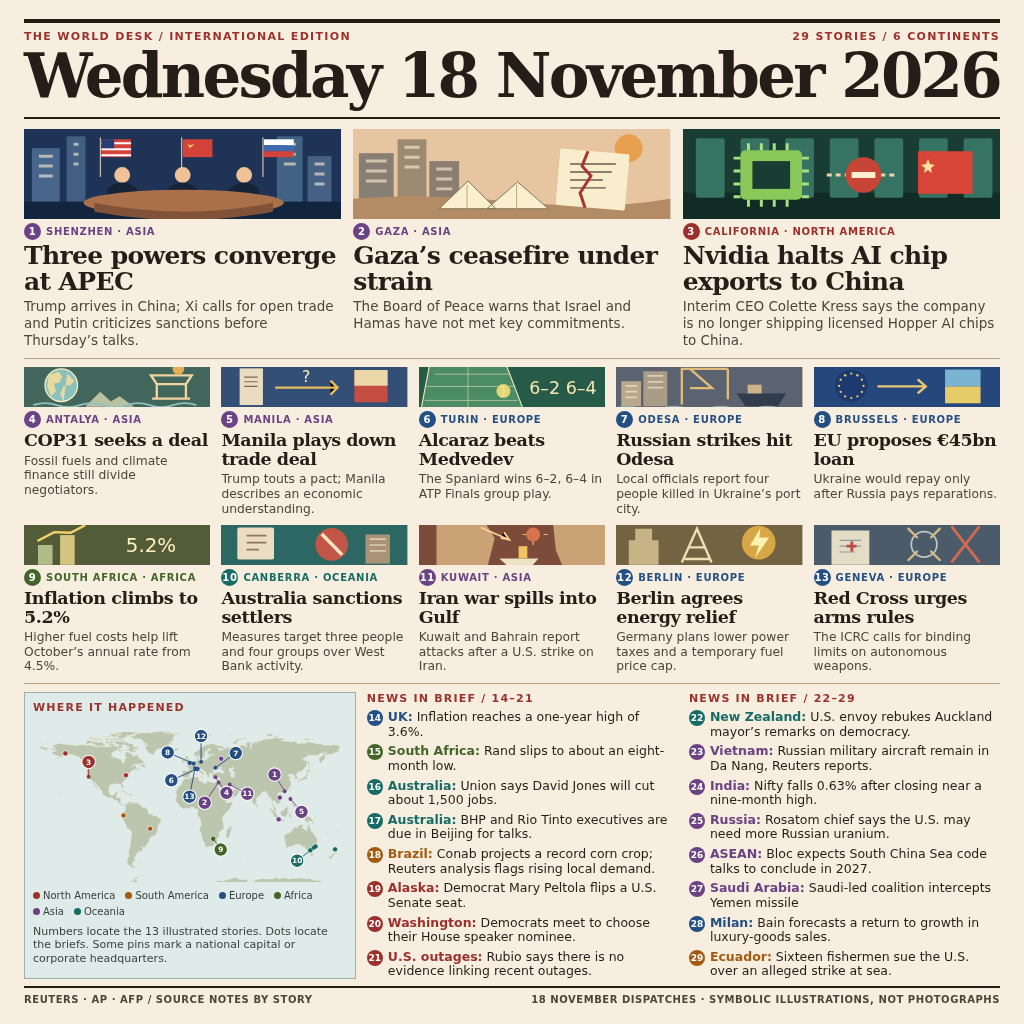
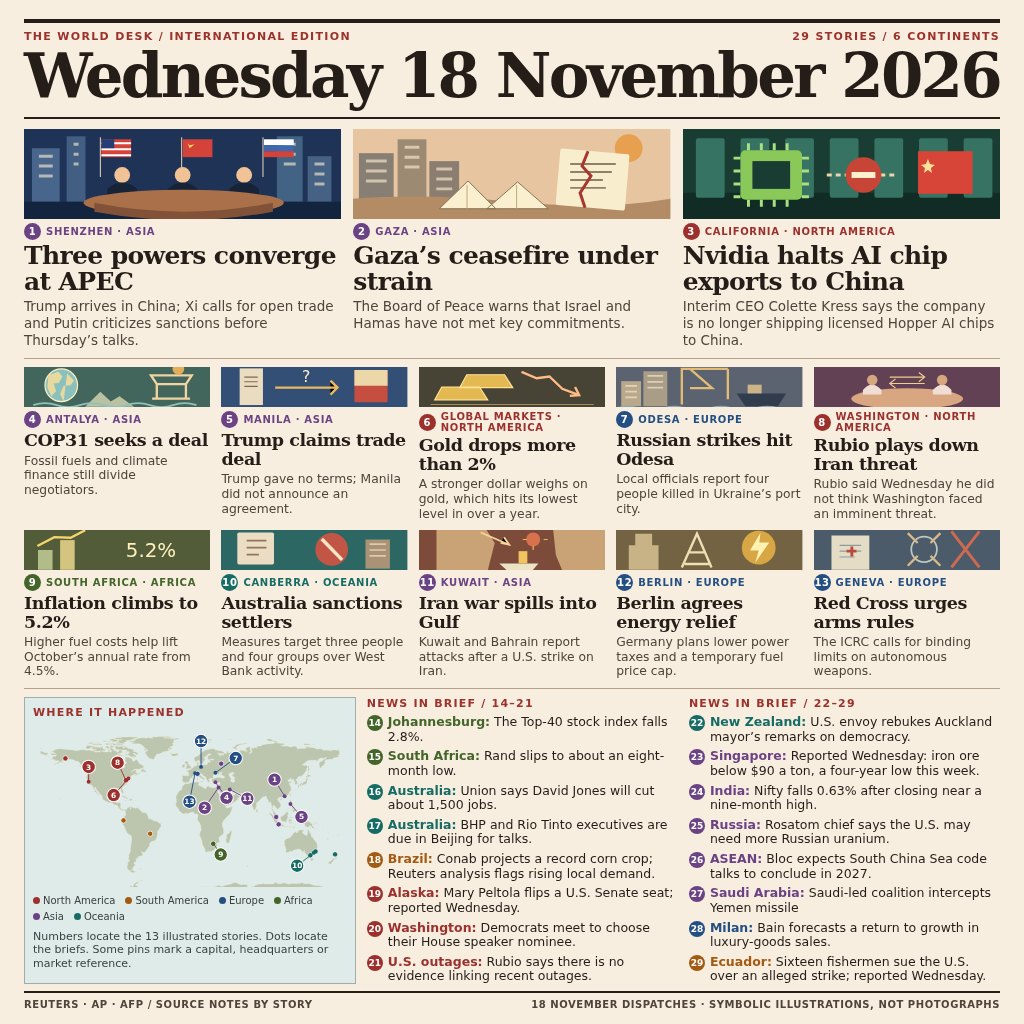
Replace unsupported claims with archived Reuters reporting

Changed region(s): [[0.0, 0.3438, 1.0, 1.0]]

diff --git a/frontpage.html b/frontpage.html
@@ -2,10 +2,12 @@
 <html lang="en"><meta charset="utf-8"><meta name="viewport" content="width=1024"><title>The World Desk | 18 November 2026</title>
 <style>
 :root{--paper:#f7eee0;--ink:#251d17;--sub:#50443a;--rule:#b8a18a;--red:#9d312b}*{box-sizing:border-box}html,body{width:1024px;min-height:1024px;margin:0}body{padding:19px 24px 12px;background:var(--paper);color:var(--ink);font:14px Arial,sans-serif}h1,h2,p{margin:0}header{padding:7px 0 8px;border-top:4px solid var(--ink);border-bottom:2px solid var(--ink)}.strap,footer{display:flex;justify-content:space-between;text-transform:uppercase;font-weight:bold;letter-spacing:.12em;font-size:11px;color:var(--red)}h1,h2{font-family:Georgia,serif}h1{text-align:center;font-size:61px;line-height:1.08;letter-spacing:-.045em}.news{display:grid;gap:12px}.lead{grid-template-columns:repeat(3,minmax(0,1fr));margin-top:12px;padding-bottom:12px;border-bottom:1px solid var(--rule)}.mid{grid-template-columns:repeat(5,minmax(0,1fr));gap:11px;margin-top:10px;padding-bottom:11px;border-bottom:1px solid var(--rule)}article{min-width:0}article svg{display:block;width:100%;height:94px}.mid svg{height:40px}.meta{display:flex;align-items:center;gap:5px;margin:4px 0 3px;text-transform:uppercase;letter-spacing:.07em;font-size:10px;font-weight:800;color:var(--color)}.num{background:var(--color);color:white;display:inline-grid;place-items:center;min-width:17px;height:17px;border-radius:50%;font:bold 10px Arial;flex:none}article h2{font-size:26px;line-height:1.03;letter-spacing:-.025em}article p{font-size:14px;line-height:1.23;color:var(--sub);margin-top:4px}.mid h2{font-size:18px;line-height:1.06}.mid p{font-size:12.5px;line-height:1.19}.bottom{display:grid;grid-template-columns:34% 1fr 1fr;gap:11px;margin-top:10px}.label{font:bold 11px Arial;text-transform:uppercase;letter-spacing:.11em;color:var(--red);margin-bottom:5px}.map{background:#deebe9;padding:8px;border:1px solid #9eaeab;min-width:0;align-self:stretch}.atlas{position:relative;aspect-ratio:340/174;margin-top:7px}.atlas img,.atlas svg{position:absolute;width:100%;height:100%}.legend{display:flex;gap:5px 10px;flex-wrap:wrap;margin-top:8px;font-size:10px;color:#393e3c}.legend span{display:flex;align-items:center;gap:3px}.legend i{width:7px;height:7px;border-radius:50%;background:var(--color)}.map p{font-size:11px;line-height:1.25;color:#39433e;margin-top:8px}.briefs{list-style:none;margin:0;padding:0;display:grid;gap:5px}.briefs li{display:flex;gap:5px;align-items:flex-start;font-size:13px;line-height:1.16}.briefs .num{min-width:16px;height:16px;font-size:9px}.briefs strong{color:var(--color)}footer{margin-top:9px;padding-top:6px;border-top:2px solid var(--ink);letter-spacing:.055em;color:var(--sub);font-size:10px}
+/* Fit all reporting on the square canvas without clipping or hidden overflow. */
+.lead{margin-top:10px;padding-bottom:10px}.lead h2{font-size:25px}.lead p{font-size:13.5px}.lead svg{height:90px}.mid{gap:9px 11px;margin-top:8px;padding-bottom:9px}.mid h2{font-size:17.5px}.mid p{font-size:12.3px}.bottom{margin-top:8px}.briefs li{font-size:12.5px;line-height:1.17}footer{margin-top:7px}
 </style>
 <header><div class="strap"><span>The World Desk / International edition</span><span id="edition"></span></div><h1>Wednesday 18 November 2026</h1></header>
 <main><section class="news lead" aria-label="Lead stories"></section><section class="news mid" aria-label="Regional stories"></section>
-<section class="bottom"><aside class="map"><h2 class="label">Where it happened</h2><div class="atlas"><svg viewBox="0 0 340 174" role="img" aria-label="Story locations matching the numbered headlines"></svg></div><div class="legend"></div><p>Numbers locate the 13 illustrated stories. Dots locate the briefs. Some pins mark a national capital or corporate headquarters.</p></aside>
+<section class="bottom"><aside class="map"><h2 class="label">Where it happened</h2><div class="atlas"><svg viewBox="0 0 340 174" role="img" aria-label="Story locations matching the numbered headlines"></svg></div><div class="legend"></div><p>Numbers locate the 13 illustrated stories. Dots locate the briefs. Some pins mark a capital, headquarters or market reference.</p></aside>
 <section><h2 class="label">News in brief / 14–21</h2><ol class="briefs" id="brief-a"></ol></section><section><h2 class="label">News in brief / 22–29</h2><ol class="briefs" id="brief-b"></ol></section></section></main>
 <footer><span>Reuters · AP · AFP / Source notes by story</span><span>18 November dispatches · Symbolic illustrations, not photographs</span></footer>
 <script src="stories.js"></script><script src="illustrations.js"></script>
@@ -23,7 +25,7 @@ all('#brief-a').innerHTML=stories.slice(13,21).map((s,j)=>brief(s,j+13)).join(''
 all('#brief-b').innerHTML=stories.slice(21).map((s,j)=>brief(s,j+21)).join('');
 all('.legend').innerHTML=Object.values(regions).map(([n,c])=>`<span style="--color:${c}"><i></i>${n}</span>`).join('');
 const project=(lat,lon)=>[8+(lon+180)*.9,12+(83-lat)*1.06];
-const offsets=[[-11,-18],[-15,22],[0,-16],[12,17],[12,14],[-27,12],[22,-16],[-28,-12],[8,12],[-18,14],[19,10],[0,-28],[-6,31]];
+const offsets=[[-11,-18],[-15,22],[0,-16],[12,17],[12,14],[-16,18],[22,-16],[-9,-19],[8,12],[-18,14],[19,10],[0,-28],[-6,31]];
 const pins=stories.map((s,i)=>{
  const [x,y]=project(s[2],s[3]),color=regions[s[1]][1];
  if(i>=13)return `<circle cx="${x}" cy="${y}" r="2.9" fill="${color}" stroke="#fff" stroke-width=".8"><title>${i+1} ${s[0]}</title></circle>`;

diff --git a/stories.js b/stories.js
@@ -4,29 +4,29 @@ const stories = [
  ['Gaza','AS',31.50,34.47,'Gaza’s ceasefire under strain','The Board of Peace warns that Israel and Hamas have not met key commitments.','gaza'],
  ['California','NA',37.35,-121.95,'Nvidia halts AI chip exports to China','Interim CEO Colette Kress says the company is no longer shipping licensed Hopper AI chips to China.','chip'],
  ['Antalya','AS',36.90,30.70,'COP31 seeks a deal','Fossil fuels and climate finance still divide negotiators.','climate'],
- ['Manila','AS',14.60,120.98,'Manila plays down trade deal','Trump touts a pact; Manila describes an economic understanding.','trade'],
- ['Turin','EU',45.07,7.69,'Alcaraz beats Medvedev','The Spaniard wins 6–2, 6–4 in ATP Finals group play.','tennis'],
+ ['Manila','AS',14.60,120.98,'Trump claims trade deal','Trump gave no terms; Manila did not announce an agreement.','trade'],
+ ['Global markets','NA',40.71,-74.01,'Gold drops more than 2%','A stronger dollar weighs on gold, which hits its lowest level in over a year.','gold'],
  ['Odesa','EU',46.48,30.73,'Russian strikes hit Odesa','Local officials report four people killed in Ukraine’s port city.','port'],
- ['Brussels','EU',50.85,4.35,'EU proposes €45bn loan','Ukraine would repay only after Russia pays reparations.','loan'],
+ ['Washington','NA',38.90,-77.04,'Rubio plays down Iran threat','Rubio said Wednesday he did not think Washington faced an imminent threat.','talks'],
  ['South Africa','AF',-25.75,28.19,'Inflation climbs to 5.2%','Higher fuel costs help lift October’s annual rate from 4.5%.','inflation'],
  ['Canberra','OC',-35.28,149.13,'Australia sanctions settlers','Measures target three people and four groups over West Bank activity.','sanctions'],
  ['Kuwait','AS',29.38,47.99,'Iran war spills into Gulf','Kuwait and Bahrain report attacks after a U.S. strike on Iran.','gulf'],
  ['Berlin','EU',52.52,13.41,'Berlin agrees energy relief','Germany plans lower power taxes and a temporary fuel price cap.','energy'],
  ['Geneva','EU',46.20,6.15,'Red Cross urges arms rules','The ICRC calls for binding limits on autonomous weapons.','law'],
- ['UK','EU',51.51,-.13,'Inflation reaches a one-year high of 3.6%.'],
+ ['Johannesburg','AF',-26.20,28.05,'The Top-40 stock index falls 2.8%.'],
  ['South Africa','AF',-26.20,28.05,'Rand slips to about an eight-month low.'],
  ['Australia','OC',-33.87,151.21,'Union says David Jones will cut about 1,500 jobs.'],
  ['Australia','OC',-37.81,144.96,'BHP and Rio Tinto executives are due in Beijing for talks.'],
  ['Brazil','SA',-15.79,-47.88,'Conab projects a record corn crop; Reuters analysis flags rising local demand.'],
- ['Alaska','NA',61.22,-149.90,'Democrat Mary Peltola flips a U.S. Senate seat.'],
+ ['Alaska','NA',61.22,-149.90,'Mary Peltola flips a U.S. Senate seat; reported Wednesday.'],
  ['Washington','NA',38.90,-77.04,'Democrats meet to choose their House speaker nominee.'],
  ['U.S. outages','NA',38.90,-77.04,'Rubio says there is no evidence linking recent outages.'],
  ['New Zealand','OC',-36.85,174.76,'U.S. envoy rebukes Auckland mayor’s remarks on democracy.'],
- ['Vietnam','AS',16.05,108.20,'Russian military aircraft remain in Da Nang, Reuters reports.'],
+ ['Singapore','AS',1.29,103.85,'Reported Wednesday: iron ore below $90 a ton, a four-year low this week.'],
  ['India','AS',19.08,72.88,'Nifty falls 0.63% after closing near a nine-month high.'],
  ['Russia','AS',55.76,37.62,'Rosatom chief says the U.S. may need more Russian uranium.'],
  ['ASEAN','AS',-6.21,106.85,'Bloc expects South China Sea code talks to conclude in 2027.'],
  ['Saudi Arabia','AS',24.71,46.67,'Saudi-led coalition intercepts Yemen missile','The coalition says it destroyed a Houthi cruise missile launched toward Riyadh.','gulf'],
  ['Milan','EU',45.46,9.19,'Bain forecasts a return to growth in luxury-goods sales.'],
- ['Ecuador','SA',-2.17,-79.92,'Sixteen fishermen sue the U.S. over an alleged strike at sea.'],
+ ['Ecuador','SA',-2.17,-79.92,'Sixteen fishermen sue the U.S. over an alleged strike; reported Wednesday.'],
 ];

diff --git a/illustrations.js b/illustrations.js
@@ -7,6 +7,8 @@ function artwork(kind, large) {
  if(kind==='gaza')return wrap('#e6c5a0',`<circle cx="278" cy="21" r="14" fill="#e6a050"/>${building(6,26,35,49,'#877e74')}${building(45,12,29,63,'#9d8a73')}${building(77,34,30,41,'#8b7e71')}<path d="M0 72q70-6 161 3t159-3v22H0" fill="#b38c66"/><path d="m87 82 29-28 28 28zm48 0 31-27 31 27z" fill="#faf0cf" stroke="#867457"/><path d="M115 58v24m50-24v24" stroke="#bda77c"/><rect x="207" y="24" width="70" height="57" rx="2" fill="#f8edcc" transform="rotate(5 240 48)"/><path d="M219 37h46m-46 8h42m-42 8h33m-33 8h36" stroke="#8d816b" stroke-width="2"/><path d="m237 24-6 15 9 10-11 17 5 15" stroke="#a63630" stroke-width="3" fill="none"/>`);
  if(kind==='chip')return wrap('#193c33',`<path d="M0 66h320v28H0" fill="#102c25"/><g fill="#367363">${Array.from({length:7},(_,i)=>`<rect x="${13+i*45}" y="11" width="29" height="60" rx="2"/>`).join('')}</g><rect x="58" y="23" width="62" height="50" rx="5" fill="#8ac85a"/><rect x="70" y="34" width="38" height="28" fill="#193c33"/><g stroke="#a9df80" stroke-width="3"><path d="M66 16v7m13-7v7m13-7v7m13-7v7M66 73v7m13-7v7m13-7v7m13-7v7M51 31h7m-7 13h7m-7 13h7m-7 13h7m62-39h7m-7 13h7m-7 13h7m-7 13h7"/></g><path d="M145 48h72" stroke="#ebd5aa" stroke-width="3" stroke-dasharray="5 4"/><circle cx="182" cy="48" r="18" fill="#c64536"/><rect x="170" y="45" width="24" height="6" fill="#fff0d0"/><rect x="237" y="24" width="55" height="43" fill="#d64537"/><path d="m247 32 2 5 5 1-4 3 1 5-4-3-4 3 1-5-4-3 5-1z" fill="#ffe19a"/>`);
  if(kind==='climate')return wrap('#43665c',`${globe}<path d="M105 81l26-26 18 17 15-9 25 18z" fill="#b9c1a2"/><path d="M16 78q20-7 40 0t40 0 40 0 40 0 40 0 40 0 40 0" stroke="#90c1ba" stroke-width="3" fill="none"/><path d="M218 27h70l-10 15h-50zM228 42v25m50-25v25M220 67h65" stroke="#f0d4a1" stroke-width="4" fill="none"/><circle cx="265" cy="16" r="10" fill="#e4ae57"/>`);
+ if(kind==='gold')return wrap('#484435',`<path d="M20 77h280" stroke="#a58a53" stroke-width="2"/><path d="m27 69 12-22h65l14 22zm43-21 12-22h65l14 22z" fill="#e5b952" stroke="#ffe397" stroke-width="2"/><path d="m176 21 26 11 22-3 22 21 29 11m-16 1 16-1-7-14" fill="none" stroke="#ffbb87" stroke-width="4"/>`);
+ if(kind==='talks')return wrap('#624154',`<ellipse cx="160" cy="67" rx="96" ry="18" fill="#d8a681"/><path d="M84 60V52q15-18 32 0v8m88 0v-8q17-18 32 0v8" fill="#f0ddd3"/><circle cx="100" cy="35" r="9" fill="#d6a77e"/><circle cx="220" cy="35" r="9" fill="#d6a77e"/><path d="M130 30h60m-10-8 10 8-10 8M190 41h-60m10-8-10 8 10 8" fill="none" stroke="#f0ce90" stroke-width="2"/>`);
  if(kind==='trade')return wrap('#344f76',`<rect x="32" y="15" width="40" height="63" fill="#eadcc0"/><path d="M40 30h23m-23 8h23m-23 8h23" stroke="#81674e" stroke-width="2"/><path d="M93 48h107m-12-12 12 12-12 12" stroke="#e8ba60" stroke-width="4"/><path d="m229 18 29 15 28-15v55h-57z" fill="#c64e40"/><path d="M229 18h57v27h-57" fill="#ebd7a8"/><text x="146" y="39" font-size="27" text-anchor="middle" font-family="Georgia" fill="#fff0c6">?</text>`);
  if(kind==='tennis')return wrap('#275b49',`<path d="M18 10h132l28 73H4z" fill="#4b8b65" stroke="#efe4b5" stroke-width="2"/><path d="M84 10v73M13 46h152M27 25h128M10 70h159" stroke="#efe4b5" fill="none"/><circle cx="145" cy="54" r="12" fill="#e4d672"/><path d="M140 43q13 12 0 22" fill="none" stroke="white"/><text x="247" y="59" text-anchor="middle" font-size="30" fill="#f6e6b1" font-family="Georgia">6–2 6–4</text>`);
  if(kind==='port')return wrap('#5c6370',`${building(9,37,34,43,'#b9a88c')}${building(47,20,41,60,'#aa9d88')}<path d="M113 77V16h79m-65 0 38 33h-38m65-33v52" stroke="#e0bc76" stroke-width="4" fill="none"/><path d="M207 58h85l-14 22h-56z" fill="#313d4c"/><rect x="226" y="43" width="24" height="15" fill="#ccb487"/><path d="M0 84q20-7 40 0t40 0 40 0 40 0 40 0 40 0 40 0" stroke="#8aa8ad" stroke-width="3" fill="none"/>`);

diff --git a/index.html b/index.html
@@ -7,7 +7,7 @@
 </style>
 <header><div class="strap"><span>The World Desk / International edition</span><span id="edition"></span></div><h1>Wednesday 18 November 2026</h1></header>
 <main><section class="news lead" aria-label="Lead stories"></section><section class="news mid" aria-label="Regional stories"></section>
-<section class="bottom"><aside class="map"><h2 class="label">Where it happened</h2><div class="atlas"><svg viewBox="0 0 340 174" role="img" aria-label="Story locations matching the numbered headlines"></svg></div><div class="legend"></div><p>Numbers locate the 13 illustrated stories. Dots locate the briefs. Some pins mark a national capital or corporate headquarters.</p></aside>
+<section class="bottom"><aside class="map"><h2 class="label">Where it happened</h2><div class="atlas"><svg viewBox="0 0 340 174" role="img" aria-label="Story locations matching the numbered headlines"></svg></div><div class="legend"></div><p>Numbers locate the 13 illustrated stories. Dots locate the briefs. Some pins mark a capital, headquarters or market reference.</p></aside>
 <section><h2 class="label">News in brief / 14–21</h2><ol class="briefs" id="brief-a"></ol></section><section><h2 class="label">News in brief / 22–29</h2><ol class="briefs" id="brief-b"></ol></section></section></main>
 <footer><span>Reuters · AP · AFP / Source notes by story</span><span>18 November dispatches · Symbolic illustrations, not photographs</span></footer>
 <script src="stories.js"></script><script src="illustrations.js"></script>
@@ -25,7 +25,7 @@ all('#brief-a').innerHTML=stories.slice(13,21).map((s,j)=>brief(s,j+13)).join(''
 all('#brief-b').innerHTML=stories.slice(21).map((s,j)=>brief(s,j+21)).join('');
 all('.legend').innerHTML=Object.values(regions).map(([n,c])=>`<span style="--color:${c}"><i></i>${n}</span>`).join('');
 const project=(lat,lon)=>[8+(lon+180)*.9,12+(83-lat)*1.06];
-const offsets=[[-11,-18],[-15,22],[0,-16],[12,17],[12,14],[-27,12],[22,-16],[-28,-12],[8,12],[-18,14],[19,10],[0,-28],[-6,31]];
+const offsets=[[-11,-18],[-15,22],[0,-16],[12,17],[12,14],[-16,18],[22,-16],[-9,-19],[8,12],[-18,14],[19,10],[0,-28],[-6,31]];
 const pins=stories.map((s,i)=>{
  const [x,y]=project(s[2],s[3]),color=regions[s[1]][1];
  if(i>=13)return `<circle cx="${x}" cy="${y}" r="2.9" fill="${color}" stroke="#fff" stroke-width=".8"><title>${i+1} ${s[0]}</title></circle>`;

diff --git a/SOURCES.md b/SOURCES.md
@@ -9,30 +9,30 @@ All text is preserved from the locally cached November 18, 2026 reporting used f
 | 3 | Licensed Nvidia chips | Reuters/Investing.com, `page-3.md` / extract | Chip wording says licensed Hopper shipments stopped. |
 | 4 | COP31 | AFP/France 24, `page-4.md` | Negotiations and climate finance. |
 | 5 | U.S.–Philippines trade claim | Reuters/Investing.com, `page-5.md` | Clearly distinguishes Trump’s claim from Manila’s position. |
-| 6 | Alcaraz–Medvedev | ATP Tour/BBC Sport links in original README; AFP URL in source ledger | 6–2, 6–4 retained. |
-| 7 | Odesa attack | Reuters via Internazionale, `page-7.md` | Local officials’ casualty report attributed. |
-| 8 | EU–Ukraine loan | Source URL in ledger; article cache `page-8.md` | €45bn, repayment condition as cached. |
+| 6 | Gold | [Reuters via CNBC Africa](https://www.cnbcafrica.com/2026/south-african-rand-slips-as-dollar-strength-local-government-uncertainties-weigh), `page-15.md` | Nov 18 dispatch: “gold falling more than 2% to its lowest level in over a year.” Replaces the tennis item, including the unverified score. The map uses New York as a market reference point, not the location of the price move. |
+| 7 | Odesa attack | Reuters via Internazionale, `direct-7.html` | Local officials’ casualty report attributed. |
+| 8 | Rubio on Washington | [Reuters via Investing.com](https://www.investing.com/news/world-news/iran-attacks-us-bases-in-gulf-countries-despite-diplomatic-efforts-5034906), `page-28.md` | “On Wednesday, US Secretary of State Marco Rubio said he did not think there was any imminent threat to the US capital.” Replaces the EU loan item. |
 | 9 | South Africa inflation | Reuters via CNBC Africa, `direct-9.html` | 5.2% vs 4.5%, October. |
 | 10 | Australia sanctions | The Hindu / Reuters reporting, `direct-10.html` | Three people, four groups. |
 | 11 | Gulf attacks | Reuters/Investing.com, `page-28.md` | Story cites Kuwait and Bahrain; concise deck. |
 | 12 | German energy relief | AFP, `page-12.md` | Lower power taxes and temporary fuel cap. |
 | 13 | Red Cross / autonomous weapons | Malay Mail, `page-13.md` | ICRC call for binding limits. |
-| 14 | UK inflation | Reuters URL in source ledger; archived Reuters page `page-14.md` | 3.6%, one-year high. |
+| 14 | Johannesburg shares | [Reuters via CNBC Africa](https://www.cnbcafrica.com/2026/south-african-rand-slips-as-dollar-strength-local-government-uncertainties-weigh), `page-15.md` | Nov 18 dispatch: “the Top-40 index was last down 2.8%.” Replaces the UK inflation item. |
 | 15 | South African rand | CNBC Africa, `page-15.md` | “About an eight-month low” is qualified. |
 | 16 | David Jones job cuts | Finwire, `page-16.md` | Union-attributed report; about 1,500. |
 | 17 | BHP/Rio Tinto talks | Finwire, `page-17.md` | Talks in Beijing. |
 | 18 | Brazil corn | Reuters analysis via Devdiscourse, `page-18.md` | Identified as Reuters analysis. |
-| 19 | Alaska Senate | AFP, `page-19.md` | Official count. |
+| 19 | Alaska Senate | AFP, `page-19.md` | The result was Tuesday; AFP published it Wednesday, Nov 18. |
 | 20 | House speaker nomination | AFP, `page-20.md` | Leadership vote. |
 | 21 | U.S. outages | AFP URL in source ledger; cached `page-21.md` | Absence-of-evidence wording retained. |
 | 22 | New Zealand envoy | ABS-CBN URL in source ledger; cached `page-22.md` | Short paraphrase from stored result. |
-| 23 | Russian aircraft in Da Nang | Reuters/Investing.com, `page-23.md` | Reuters attribution shown. |
+| 23 | Singapore iron ore | [Reuters via Finwire](https://finwire.io/news/stock-markets-news/bhp-rio-tinto-executives-to-meet-china-leaders-as-iron-ore-pressure-builds), `page-17.md` | Nov 18 dispatch: “Prices of iron ore on the Singapore Exchange slipped below $90 a ton to the lowest in four years this week.” Replaces the Da Nang aircraft item. |
 | 24 | Indian shares | Business Recorder / Reuters, `direct-24.html` | 0.63% decline after nine-month high. |
 | 25 | Russian uranium | Straits Times / Reuters, `direct-25.html` | Rosatom chief’s statement attributed. |
 | 26 | ASEAN South China Sea code | CNA, `direct-26.html` | Expected 2027 conclusion. |
 | 27 | Saudi Arabia / Yemen missile | Reuters/Investing.com, `page-28.md` (same dispatch as #11) | Separate event in the report: the Saudi-led coalition says it destroyed a Houthi cruise missile headed for Riyadh. |
 | 28 | Luxury sales forecast | AOL article, `direct-29.html` | Bain forecast. |
-| 29 | Ecuadorian fishermen suit | Hindustan Times, `direct-30.html` | Alleged strike is qualified. |
+| 29 | Ecuadorian fishermen suit | Hindustan Times, `direct-30.html` | Filed Tuesday; reported Wednesday, Nov 18, in the publication’s local time. The strike remains an allegation. |
 
 ## Limitations
 

diff --git a/README.md b/README.md
@@ -27,7 +27,9 @@ The Chromium render is exactly 1024×1024. `layout-audit.json` records the check
 - [Reuters — U.S.–Philippines trade-deal claim and absence of announced terms](https://investing.com/news/world-news/trump-says-us-has-concluded-very-big-trade-deal-with-philippines-5034780)
 - [Reuters — Nvidia stops licensed AI-chip shipments to China](https://www.investing.com/news/stock-market-news/nvidia-stops-shipping-usapproved-ai-chips-to-china-5035204)
 - [AFP / France 24 — COP31 negotiations](https://www.france24.com/en/live-news/20261118-fault-lines-widen-as-cop31-struggles-for-climate-deal)
-- [ATP Tour — Alcaraz beats Medvedev 6–2, 6–4](https://www.atptour.com/es/news/nitto-atp-finals-2026-miercoles-fase-grupos-alcaraz-medvedev) · [BBC Sport — ATP Finals results](https://www.bbc.co.uk/sport/tennis/atp-world-tour-finals/scores-and-schedule/2026-11-18)
+- [Reuters via CNBC Africa — gold and Johannesburg stocks](https://www.cnbcafrica.com/2026/south-african-rand-slips-as-dollar-strength-local-government-uncertainties-weigh)
+- [Reuters via Investing.com — Rubio’s remarks on Washington](https://www.investing.com/news/world-news/iran-attacks-us-bases-in-gulf-countries-despite-diplomatic-efforts-5034906)
+- [Reuters via Finwire — Singapore iron ore prices](https://finwire.io/news/stock-markets-news/bhp-rio-tinto-executives-to-meet-china-leaders-as-iron-ore-pressure-builds)
 
 ---
 
